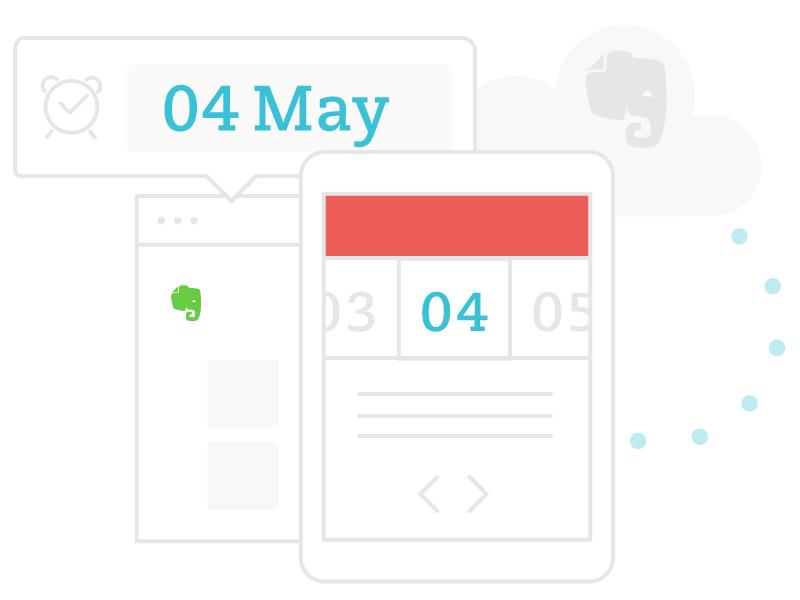
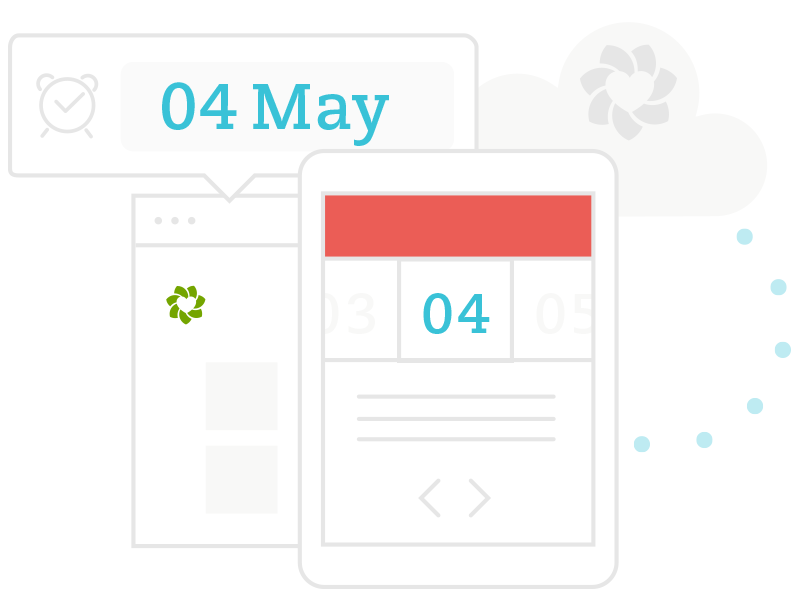
inital flow to obtain auth token for Zendesk

diff --git a/app/controllers/root_controller.rb b/app/controllers/root_controller.rb
@@ -1,9 +1,9 @@
 class RootController < ApplicationController
   force_ssl if: :ssl_configured?
 
-  helper_method :evernote_credentials?,
+  helper_method :zendesk_credentials?,
                 :render_cronofy_auth?,
-                :render_evernote_auth?,
+                :render_zendesk_auth?,
                 :render_settings?,
                 :setup_complete?
 
@@ -23,20 +23,20 @@ class RootController < ApplicationController
     !(logged_in? && current_user.cronofy_credentials?)
   end
 
-  def render_evernote_auth?
-    logged_in? && current_user.cronofy_credentials? && !current_user.evernote_credentials?
+  def render_zendesk_auth?
+    logged_in? && current_user.cronofy_credentials? && !current_user.zendesk_credentials?
   end
 
   def render_settings?
-    logged_in? && current_user.cronofy_credentials? && current_user.evernote_credentials?
+    logged_in? && current_user.cronofy_credentials? && current_user.zendesk_credentials?
   end
 
-  def evernote_credentials?
-    logged_in? && current_user.evernote_credentials?
+  def zendesk_credentials?
+    logged_in? && current_user.zendesk_credentials?
   end
 
   def setup_complete?
-    logged_in? && current_user.cronofy_credentials? && current_user.evernote_credentials? && current_user.cronofy_calendar_id
+    logged_in? && current_user.cronofy_credentials? && current_user.zendesk_credentials? && current_user.cronofy_calendar_id
   end
 
   def calendar
@@ -66,7 +66,7 @@ class RootController < ApplicationController
   def reset
     if logged_in?
       current_user.cronofy_calendar_id = nil
-      current_user.evernote_high_usn = 0
+      current_user.zendesk_high_usn = 0
       current_user.save(current_user)
 
       flash[:info] = "Syncing reset"

diff --git a/app/models/user.rb b/app/models/user.rb
@@ -14,14 +14,14 @@ class User < ActiveRecord::Base
     user
   end
 
-  def self.remove_evernote_credentials(id)
-    log.info { "Entering .remove_evernote_credentials(id=#{id})" }
+  def self.remove_zendesk_credentials(id)
+    log.info { "Entering .remove_zendesk_credentials(id=#{id})" }
     user = User.find(id)
 
-    user.evernote_access_token = nil
+    user.zendesk_access_token = nil
     user.save
 
-    log.info { "Exiting .remove_evernote_credentials(id=#{id})" }
+    log.info { "Exiting .remove_zendesk_credentials(id=#{id})" }
     user
   end
 
@@ -30,11 +30,11 @@ class User < ActiveRecord::Base
   end
 
   def all_credentials?
-    cronofy_credentials? and evernote_credentials?
+    cronofy_credentials? and zendesk_credentials?
   end
 
   def first_note_sync?
-    self.evernote_high_usn == 0
+    self.zendesk_high_usn == 0
   end
 
   def cronofy_credentials?
@@ -42,16 +42,16 @@ class User < ActiveRecord::Base
     !self.cronofy_id.blank? && !self.cronofy_refresh_token.blank?
   end
 
-  def evernote_credentials?
-    log.debug { "evernote_user_id=#{evernote_user_id}, evernote_access_token=#{evernote_access_token}" }
-    !self.evernote_user_id.blank? && !self.evernote_access_token.blank?
+  def zendesk_credentials?
+    log.debug { "zendesk_user_id=#{zendesk_user_id}, zendesk_access_token=#{zendesk_access_token}" }
+    !self.zendesk_user_id.blank? && !self.zendesk_access_token.blank?
   end
 
   def set_cronofy_calendar_id(calendar_id)
     raise "calendar_id required" if calendar_id.blank?
 
     self.cronofy_calendar_id = calendar_id
-    self.evernote_high_usn = 0
+    self.zendesk_high_usn = 0
   end
 
   def cronofy_access_token_expired?(time)

diff --git a/app/controllers/sessions_controller.rb b/app/controllers/sessions_controller.rb
@@ -8,9 +8,9 @@ class SessionsController < ApplicationController
     when 'cronofy'
       process_cronofy_login(auth_hash)
       flash[:success] = "Connected to your calendars"
-    when 'evernote'
-      process_evernote_login(auth_hash)
-      flash[:success] = "Connected to Evernote"
+    when 'zendesk'
+      process_zendesk_login(auth_hash)
+      flash[:success] = "Connected to Zendesk"
     else
       log.warn { "#create provider=#{auth_hash['provider']} not recognised" }
       flash[:error] = "Unrecognised provider login"
@@ -22,8 +22,8 @@ class SessionsController < ApplicationController
     case params[:strategy]
     when "cronofy"
       flash[:alert] = "Unable to connect to your calendars: #{params[:message]}"
-    when "evernote"
-      flash[:alert] = "Unable to connect to your Evernote account: #{params[:message]}"
+    when "zendesk"
+      flash[:alert] = "Unable to connect to your Zendesk account: #{params[:message]}"
     else
       flash[:error] = "Failure from unrecognised provider"
     end
@@ -55,10 +55,10 @@ class SessionsController < ApplicationController
     setup_sync(user)
   end
 
-  def process_evernote_login(auth_hash)
+  def process_zendesk_login(auth_hash)
     log.debug { "auth_hash=#{auth_hash.inspect}" }
-    current_user.evernote_user_id = auth_hash['uid']
-    current_user.evernote_access_token = auth_hash['credentials']['token']
+    current_user.zendesk_user_id = auth_hash['uid']
+    current_user.zendesk_access_token = auth_hash['credentials']['token']
     current_user.save
 
     setup_sync(current_user)

diff --git a/db/schema.rb b/db/schema.rb
@@ -37,12 +37,11 @@ ActiveRecord::Schema.define(version: 20150413082217) do
     t.string   "cronofy_id"
     t.string   "cronofy_access_token"
     t.string   "cronofy_refresh_token"
-    t.datetime "created_at",                                  null: false
-    t.datetime "updated_at",                                  null: false
-    t.string   "evernote_user_id"
-    t.string   "evernote_access_token"
+    t.datetime "created_at",                      null: false
+    t.datetime "updated_at",                      null: false
+    t.string   "zendesk_user_id"
+    t.string   "zendesk_access_token"
     t.string   "cronofy_calendar_id"
-    t.integer  "evernote_high_usn",               default: 0, null: false
     t.datetime "cronofy_access_token_expiration"
     t.datetime "cronofy_last_modified"
   end

diff --git a/app/mailers/relink_mailer.rb b/app/mailers/relink_mailer.rb
@@ -3,7 +3,7 @@ class RelinkMailer < ActionMailer::Base
 
   layout 'mail'
 
-  default from: "Evernote Calendar Connector <#{ENV["FROM_EMAIL_ADDRESS"] || "bot@cronofy.com"}>"
+  default from: "Zendesk Calendar Connector <#{ENV["FROM_EMAIL_ADDRESS"] || "bot@cronofy.com"}>"
 
   def relink_cronofy(user_id)
     user = User.find(user_id)
@@ -14,12 +14,12 @@ class RelinkMailer < ActionMailer::Base
       subject: "Reconnect your calendar account"
   end
 
-  def relink_evernote(user_id)
+  def relink_zendesk(user_id)
     user = User.find(user_id)
 
-    @url = root_url(relink: true, provider: "evernote")
+    @url = root_url(relink: true, provider: "zendesk")
 
     mail to: user.email,
-      subject: "Reconnect your Evernote account"
+      subject: "Reconnect your Zendesk account"
   end
 end

diff --git a/app/jobs/sync_reminders_from_cronofy.rb b/app/jobs/sync_reminders_from_cronofy.rb
@@ -24,10 +24,10 @@ class SyncRemindersFromCronofy < ActiveJob::Base
     log.warn { "#{e.class} - #{e.message}" }
     User.remove_cronofy_credentials(e.user_id)
     RelinkMailer.relink_cronofy(e.user_id).deliver_later
-  rescue ReminderSynchronizer::EvernoteCredentialsInvalid => e
+  rescue ReminderSynchronizer::ZendeskCredentialsInvalid => e
     log.warn { "#{e.class} - #{e.message}" }
-    User.remove_evernote_credentials(e.user_id)
-    RelinkMailer.relink_evernote(e.user_id).deliver_later
+    User.remove_zendesk_credentials(e.user_id)
+    RelinkMailer.relink_zendesk(e.user_id).deliver_later
   rescue => e
     log.error "Error within #perform(user_id=#{user_id}) - #{e.message}", e
     raise

diff --git a/config/environments/production.rb b/config/environments/production.rb
@@ -60,7 +60,7 @@ Rails.application.configure do
   # Enable serving of images, stylesheets, and JavaScripts from an asset server.
   # config.action_controller.asset_host = 'http://assets.example.com'
 
-  config.action_mailer.default_url_options = { host: ENV['WEB_HOST'] || "evernote.cronofy.com", :protocol => 'https' }
+  config.action_mailer.default_url_options = { host: ENV['WEB_HOST'] || "zendesk.cronofy.com", :protocol => 'https' }
   config.action_mailer.delivery_method = :postmark
   config.action_mailer.postmark_settings = { api_key: ENV['POSTMARK_API_KEY'], secure: true }
   config.action_mailer.raise_delivery_errors = true

diff --git a/app/controllers/evernote_webhooks_controller.rb b/app/controllers/evernote_webhooks_controller.rb
@@ -1,12 +1,12 @@
-class EvernoteWebhooksController < ApplicationController
+class ZendeskWebhooksController < ApplicationController
   skip_before_filter :verify_authenticity_token
 
   def inbound
     log.info { "#inbound - params=#{params.inspect}" }
-    user = User.find_by(evernote_user_id: params[:userId])
+    user = User.find_by(zendesk_user_id: params[:userId])
 
     if user
-      SyncRemindersFromEvernote.perform_later(user.id)
+      SyncRemindersFromZendesk.perform_later(user.id)
       render nothing: true, status: :ok
     else
       render nothing: true, status: :not_found

diff --git a/config/initializers/omniauth.rb b/config/initializers/omniauth.rb
@@ -3,8 +3,11 @@ Rails.application.config.middleware.use OmniAuth::Builder do
     scope: "read_account list_calendars read_events create_event delete_event"
   }
 
-  evernote_site = ENV['EVERNOTE_SITE'] || "https://www.evernote.com"
-  provider :evernote, ENV['EVERNOTE_KEY'], ENV['EVERNOTE_SECRET'], client_options: { site: evernote_site }
+  zendesk_site = ENV['ZENDESK_SITE'] || "https://cronofy.zendesk.com"
+  provider :zendesk, ENV['ZENDESK_CLIENT_ID'], ENV['ZENDESK_CLIENT_SECRET'], {
+    scope: "read write",
+    client_options: { site: zendesk_site }
+  }
 end
 
 class OmniAuthLogger

diff --git a/config/environments/development.rb b/config/environments/development.rb
@@ -13,7 +13,7 @@ Rails.application.configure do
   config.consider_all_requests_local       = true
   config.action_controller.perform_caching = false
 
-  config.action_mailer.default_url_options = { host: ENV['WEB_HOST'] || "evernote.dev", :protocol => 'http' }
+  config.action_mailer.default_url_options = { host: ENV['WEB_HOST'] || "zendesk.dev", :protocol => 'http' }
   config.action_mailer.delivery_method = :postmark
   config.action_mailer.postmark_settings = { api_key: ENV['POSTMARK_API_KEY'], secure: true }
   config.action_mailer.raise_delivery_errors = true

diff --git a/config/routes.rb b/config/routes.rb
@@ -7,7 +7,7 @@ Rails.application.routes.draw do
   delete '/', to: 'root#destroy'
 
   post '/webhooks/cronofy/:id', to: 'cronofy_webhooks#inbound', as: 'cronofy_callback'
-  get '/webhooks/evernote', to: 'evernote_webhooks#inbound', as: 'evernote_callback'
+  get '/webhooks/zendesk', to: 'zendesk_webhooks#inbound', as: 'zendesk_callback'
 
   get "/auth/:provider/callback", to: "sessions#create"
   get "/auth/failure", to: "sessions#failure"

diff --git a/app/helpers/task_synchronizer.rb b/app/helpers/task_synchronizer.rb
@@ -12,11 +12,11 @@ class ReminderSynchronizer
     end
   end
 
-  class EvernoteCredentialsInvalid < StandardError
+  class ZendeskCredentialsInvalid < StandardError
     attr_reader :user_id
 
     def initialize(user_id)
-      super("Evernote credentials invalid for user=#{user_id}")
+      super("Zendesk credentials invalid for user=#{user_id}")
       @user_id = user_id
     end
   end
